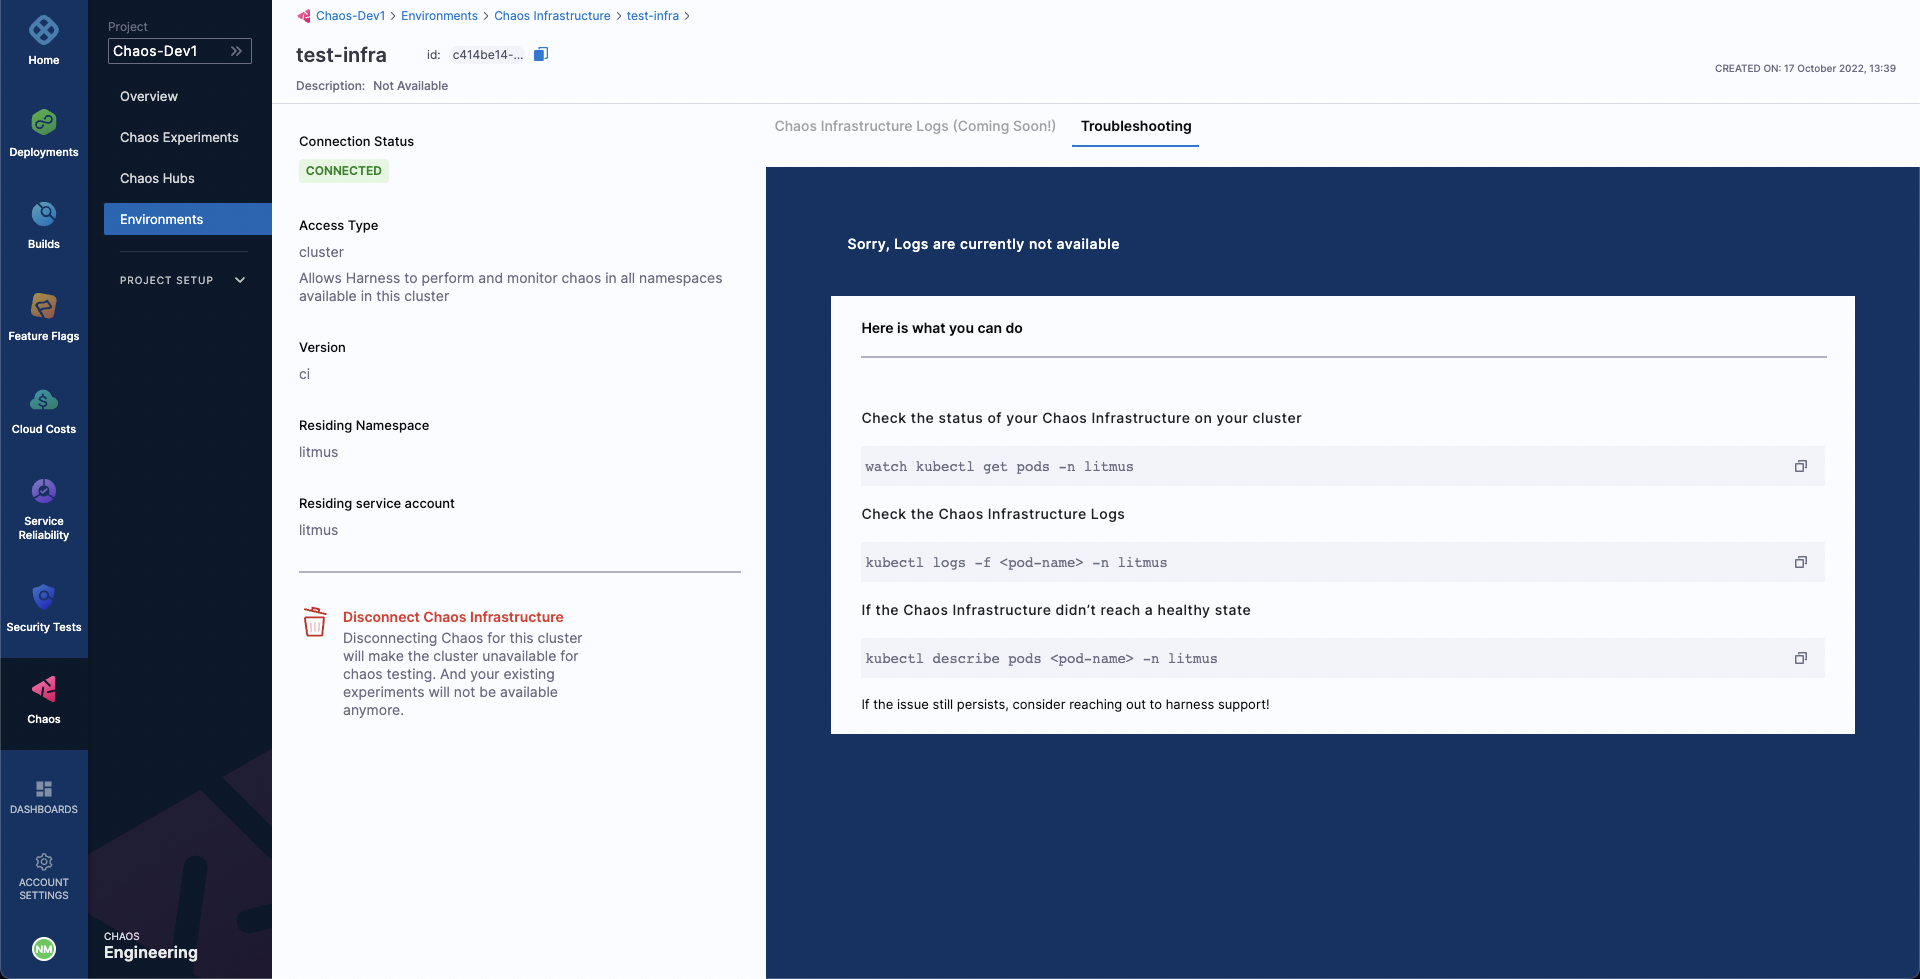
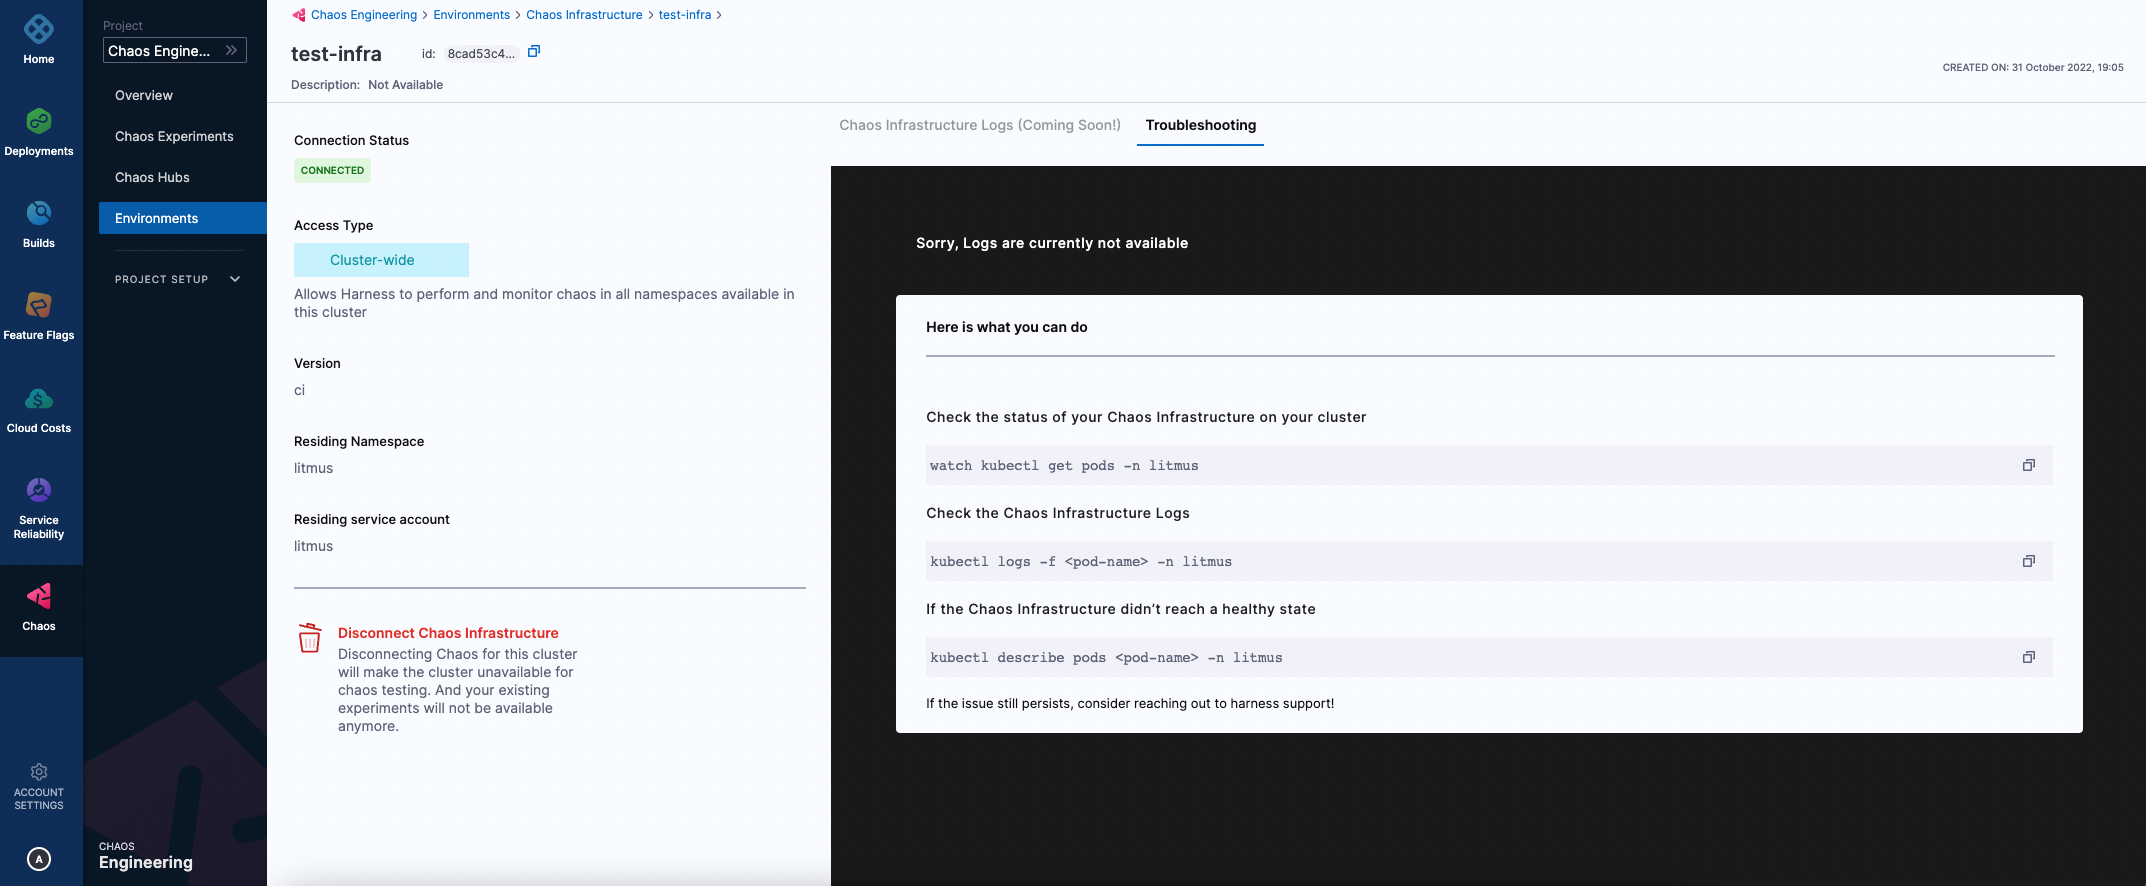
updated screenshots, updated delegate->connector

diff --git a/docs/chaos-engineering/User Guides/connect-chaos-infrastructures.md b/docs/chaos-engineering/User Guides/connect-chaos-infrastructures.md
@@ -16,22 +16,25 @@ In the **Create a new environment** modal, provide a name for the environment, o
 ## Add Chaos Infrastructure
 Now we can add a chaos infrastructure to our environment. Select **New Chaos Infrastructure**.
 
-You can either setup a chaos infrastructure on existing infrastructures that uses a Harness cluster connector i.e. Harness Kubernetes delegate or install the chaos infrastructure in a new infrastructure.
+You can either setup a chaos infrastructure on existing infrastructures that uses a Harness cluster connector i.e. Harness Kubernetes connector or install the chaos infrastructure in a new infrastructure.
 
-To use an existing Harness Kubernetes delegate to install your chaos infrastructure, select **On Existing Infrastructures** in the modal. You can use any delegate under the Project, Organization, and Account scope.
+To use an existing Harness Kubernetes connector to install your chaos infrastructure, select **On Existing Infrastructures** in the modal. You can use any connector under the Project, Organization, and Account scope.
 
 ![Chaos Infrastructure in Existing Infra](./static/connect-chaos-infrastructures/chaos-infrastructure-in-existing-infra.png)
 
 :::info
-1. A Harness Kubernetes delegate with cluster-wide read/write access can setup both cluster-scoped and namespaced-scoped chaos infrastructures.
-2. A Harness Kubernetes delegate with cluster-wide read access **can't** be used to setup a chaos infrastructures.
-3. A Harness Kubernetes delegate with specific namespace access can only be used to setup a namespace-scoped chaos infrastructure in that specific Kubernetes namespace.
+1. A Harness Kubernetes connector with cluster-wide read/write access can setup both cluster-scoped and namespaced-scoped chaos infrastructures.
+2. A Harness Kubernetes connector with cluster-wide read access **can't** be used to setup a chaos infrastructures.
+3. A Harness Kubernetes connector with specific namespace access can only be used to setup a namespace-scoped chaos infrastructure in that specific Kubernetes namespace.
 :::
 
 To install chaos infrastructure on a new infrastructure, select **On New Infrastructures**. Then, select **Continue**.
 Provide a name for the infrastructure. Optionally, you can also provide a description and tags. Then, select **Next**. 
 
 Under the installation mode, choose either **Cluster Wide** or **Namespace Mode** for installing the chaos infrastructure. By default the installation will take place in the `litmus` namespace and uses `litmus` service account, which can be configured under the K8s Cluster Details. Optionally, you can also specify node selectors and K8s tolerations for chaos infrastructure deployment.
+
+- There can only be one cluster-wide chaos infrastructure per cluster.
+- There may be multiple namespace-scoped chaos infrastructures per cluster.
 
 ![Configure Chaos Infrastructure](./static/connect-chaos-infrastructures/configure-chaos-infrastructure.png)
 
@@ -44,7 +47,7 @@ Finally, select **Done**.
 ## Validating Chaos Infrastructure Installation
 Upon applying the manifest, it will take a while to setup all the chaos infrastructure resources. After a while, the chaos infrastructure's connection state should reflect as `CONNECTED`.
 
-If the chaos infrastructure remains in a `NOT CONNECTED` state, follow the suggestions on the **Troubleshooting** tab to resolve it.
+If the chaos infrastructure remains in an `INACTIVE` or `PENDING` state, follow the suggestions on the **Troubleshooting** tab to resolve it.
 
 ![Infrastructure State](./static/connect-chaos-infrastructures/infrastructure-state.png)
 
